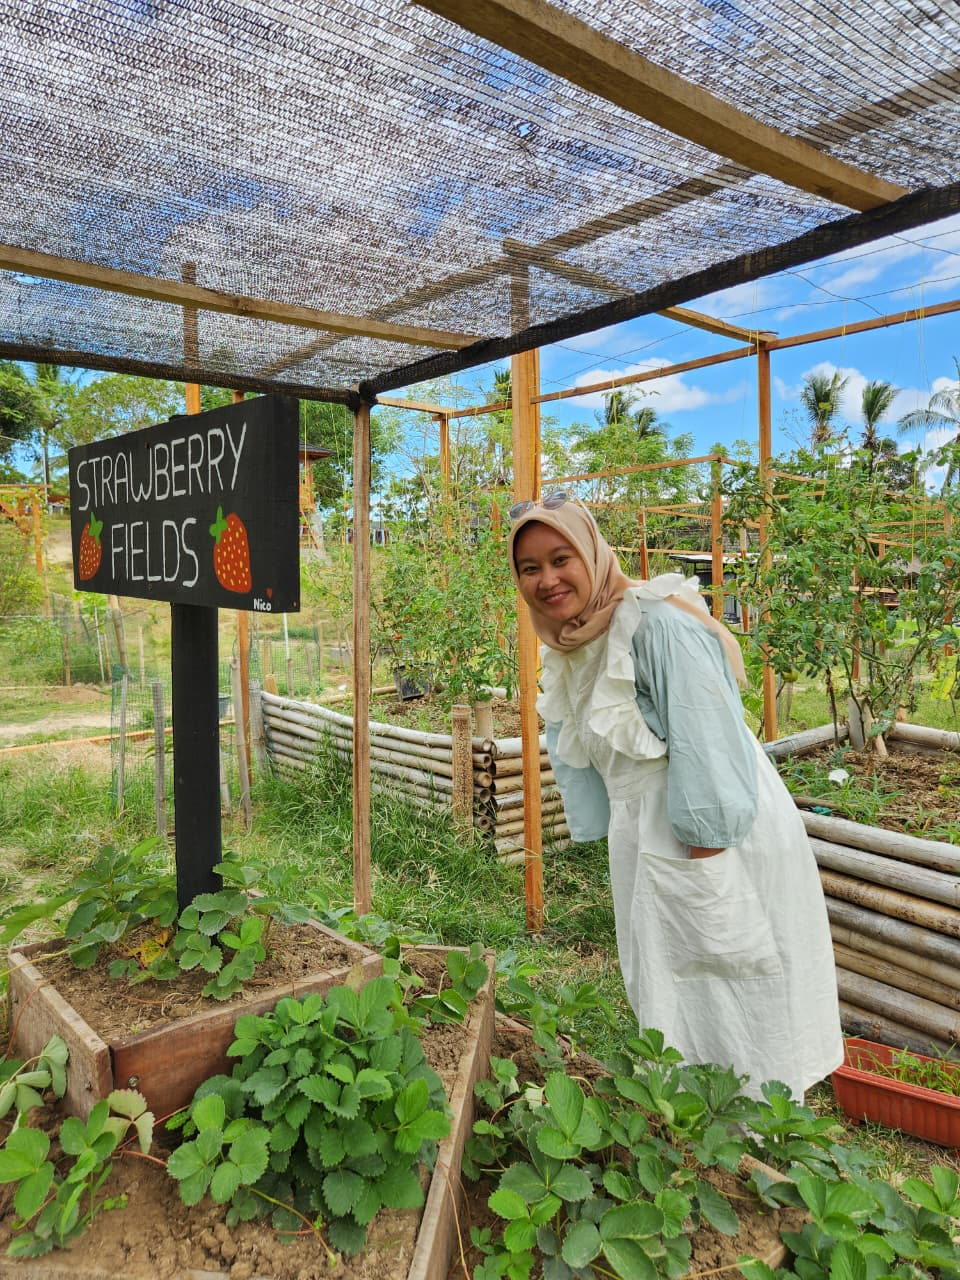
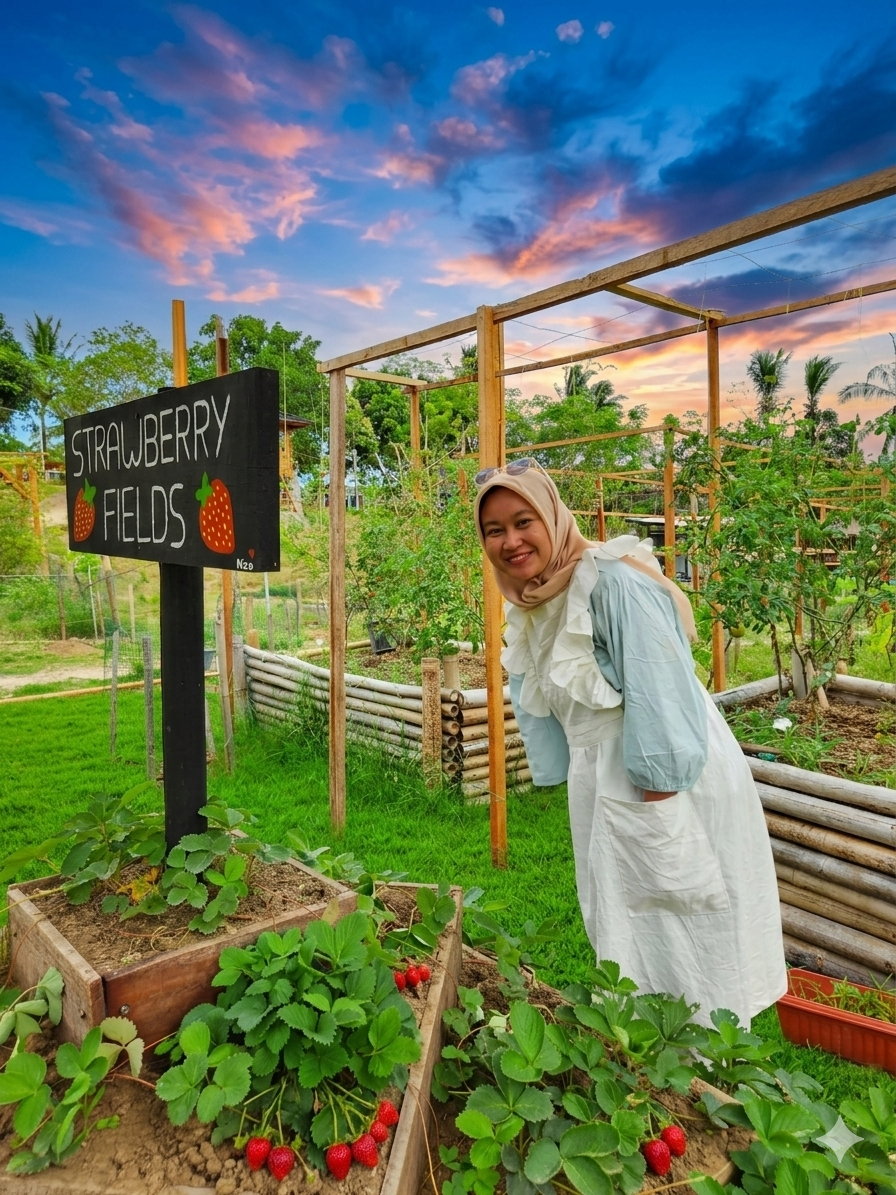
Replace Noni photos with improved sunset versions

diff --git a/pages/host.vue b/pages/host.vue
@@ -214,7 +214,7 @@ useHead({
 }
 
 .intro-image img {
-  object-position: center 60%;
+  object-position: center;
   width: 100%;
   height: 550px;
   object-fit: cover;
@@ -324,7 +324,7 @@ useHead({
 }
 
 .story-image img {
-  object-position: center 25%;
+  object-position: center;
   width: 100%;
   height: 550px;
   object-fit: cover;
@@ -476,12 +476,12 @@ useHead({
   }
   
   .intro-image img {
-    object-position: center 60%;
+    object-position: center;
     height: 350px;
   }
   
   .story-image img {
-    object-position: center 25%;
+    object-position: center;
     height: 350px;
   }
   
